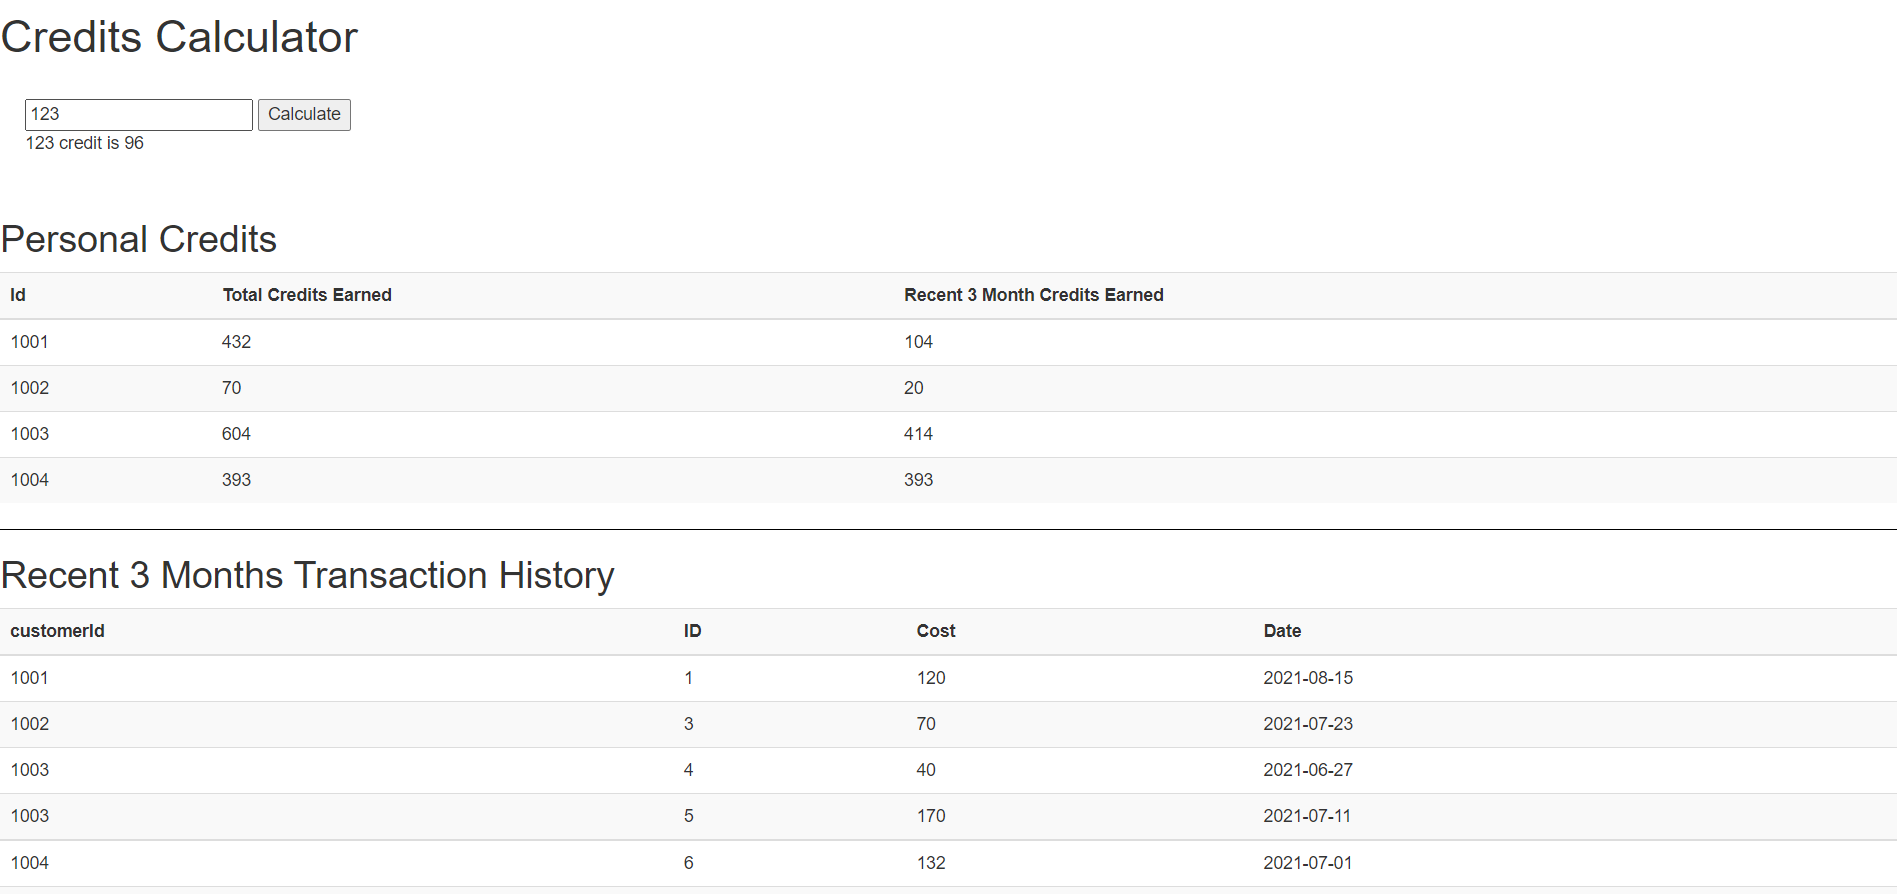
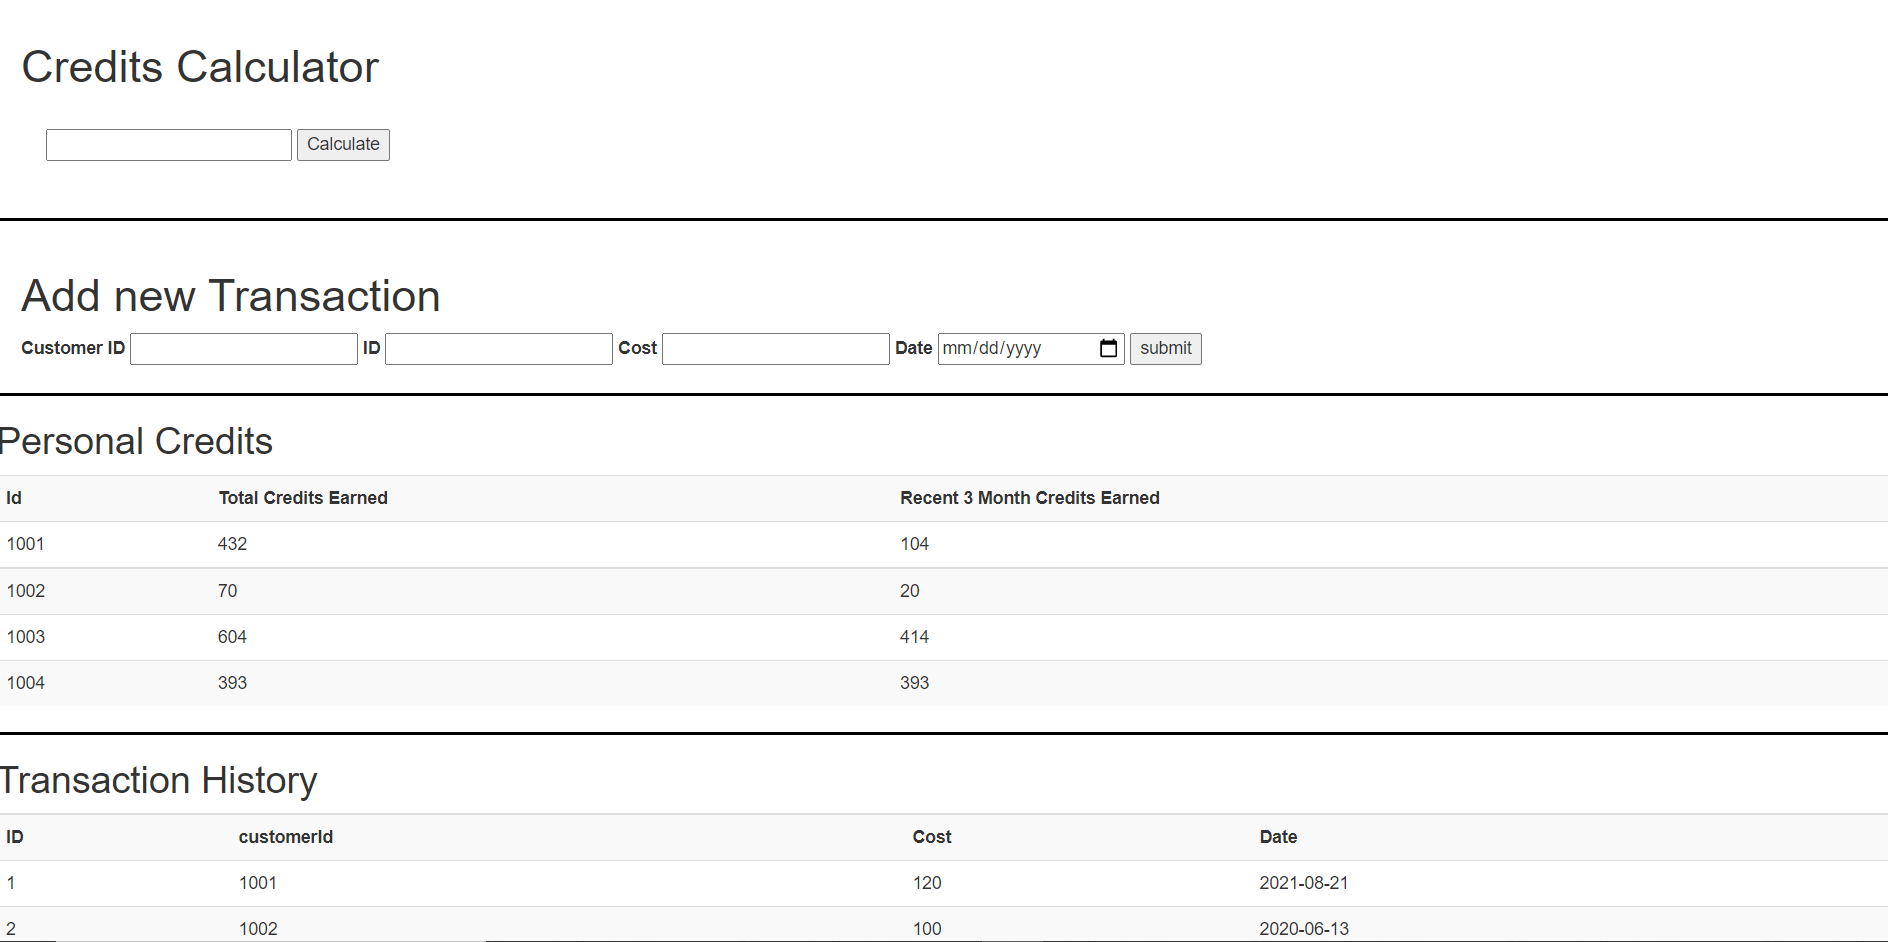
v 3.0.1
some updates in ReadMe

diff --git a/README.md b/README.md
@@ -26,9 +26,9 @@ When it is starting, go to ```localhost:8080``` (default) to check front end
 
 For the credit calculator part, you can just try it on the page.
 
-For the transaction part, I suggest you can try to modify test data in ```src/main/resources/data.json```  
+~~For the transaction part, I suggest you can try to modify test data in ```src/main/resources/data.json```~~  
 
-
+-v3.0: add new feature, now you can add transaction without use ```src/main/resources/data.json```  
 
 ## How it looks like?
 
@@ -37,3 +37,10 @@ At the beginning, please allowed me to say a big sorry!!
 I am not good at UI part, so the front end page looks really simple:
 
 ![Front End](img/Frontend.PNG)
+
+
+
+## The Part I am trying to do
+
+Currently, still trying to handle the frontend part to check whether type of input is correct. 
+
